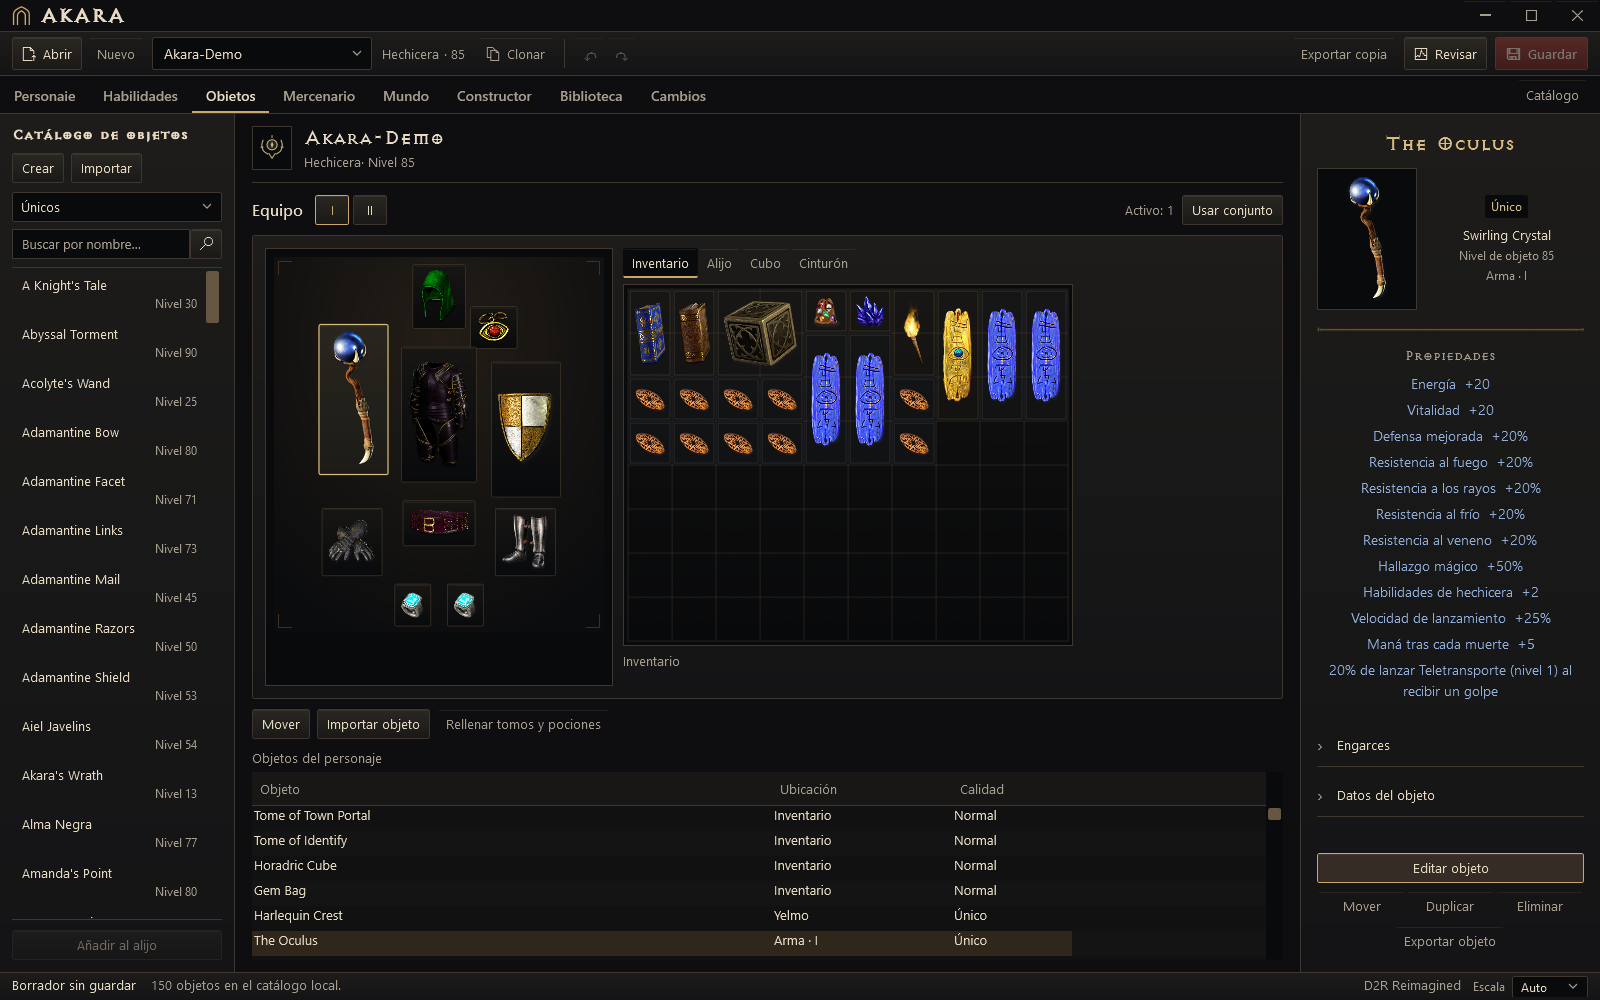
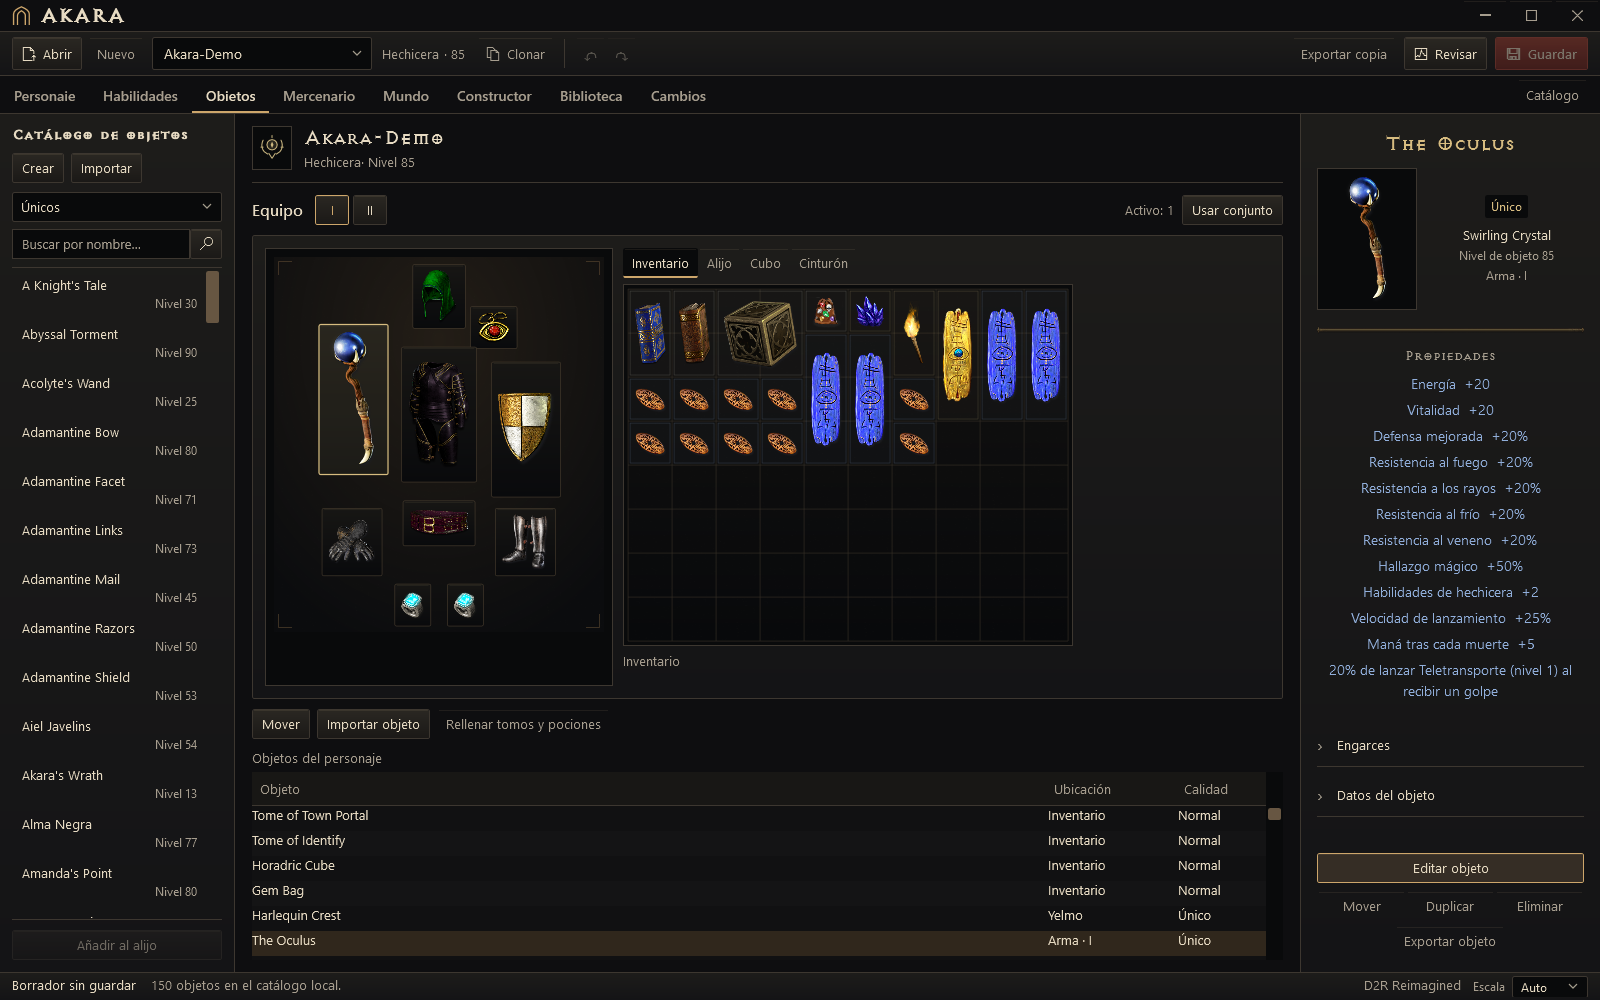
Keep item table readable through window and appearance changes

diff --git a/src/Akara.Desktop/WorkbenchView.xaml b/src/Akara.Desktop/WorkbenchView.xaml
@@ -342,11 +342,11 @@
                 <RowDefinition Height="*" />
               </Grid.RowDefinitions>
               <TextBlock Text="Objetos del personaje" Foreground="{StaticResource MutedBrush}" Margin="0,0,0,6" />
-              <DataGrid Grid.Row="1" ItemsSource="{Binding Items}" SelectedItem="{Binding SelectedItem,Mode=TwoWay}" IsReadOnly="True" MouseDoubleClick="OnItemTableInvoked" RowHeight="25" AlternationCount="0">
+              <DataGrid x:Name="CharacterItemTable" Loaded="OnItemTableLoaded" SizeChanged="OnItemTableSizeChanged" IsVisibleChanged="OnItemTableVisibleChanged" Grid.Row="1" ItemsSource="{Binding Items}" SelectedItem="{Binding SelectedItem,Mode=TwoWay}" IsReadOnly="True" MouseDoubleClick="OnItemTableInvoked" RowHeight="25" AlternationCount="0">
                 <DataGrid.Columns>
-                  <DataGridTextColumn Header="Objeto" Binding="{Binding Name}" Width="*" MaxWidth="520" MinWidth="200" />
-                  <DataGridTextColumn Header="Ubicación" Binding="{Binding LocationLabel}" Width="180" />
-                  <DataGridTextColumn Header="Calidad" Binding="{Binding QualityLabel}" Width="120" />
+                  <DataGridTextColumn Header="Objeto" Binding="{Binding Name}" Width="300" MinWidth="160"><DataGridTextColumn.ElementStyle><Style TargetType="TextBlock"><Setter Property="TextTrimming" Value="CharacterEllipsis"/><Setter Property="ToolTip" Value="{Binding Name}"/></Style></DataGridTextColumn.ElementStyle></DataGridTextColumn>
+                  <DataGridTextColumn Header="Ubicación" Binding="{Binding LocationLabel}" Width="130" MinWidth="130" MaxWidth="130" />
+                  <DataGridTextColumn Header="Calidad" Binding="{Binding QualityLabel}" Width="90" MinWidth="90" MaxWidth="90" />
                 </DataGrid.Columns>
               </DataGrid>
             </Grid>
@@ -566,7 +566,7 @@
             <DataGrid Grid.Row="2" ItemsSource="{Binding Items}" SelectedItem="{Binding SelectedItem,Mode=TwoWay}" IsReadOnly="True" MouseDoubleClick="OnItemTableInvoked" RowHeight="28">
               <DataGrid.Columns>
                 <DataGridTextColumn Header="Objetos actuales" Binding="{Binding Name}" Width="2*" />
-                <DataGridTextColumn Header="Ubicación" Binding="{Binding LocationLabel}" Width="180" />
+                <DataGridTextColumn Header="Ubicación" Binding="{Binding LocationLabel}" Width="130" MinWidth="130" MaxWidth="130" />
                 <DataGridTextColumn Header="Base" Binding="{Binding BaseName}" Width="*" />
               </DataGrid.Columns>
             </DataGrid>

diff --git a/src/Akara.Desktop/WorkbenchView.xaml.cs b/src/Akara.Desktop/WorkbenchView.xaml.cs
@@ -122,6 +122,20 @@ public partial class WorkbenchView : UserControl
     async void DesignCatalog(CatalogEntry entry){if(attached is not null)await NativeDialogs.DesignAsync(Window.GetWindow(this),attached,null,new ItemDesignRequest{BaseCode="",Quality="normal",RunewordName=entry.Name,Level=85});}
     void OnItemInvoked(object? sender,EventArgs e){if(attached?.SelectedItem is { } item)Design(item);}
     void OnItemTableInvoked(object sender,MouseButtonEventArgs e){if(sender is ItemsControl table&&e.OriginalSource is DependencyObject source&&ItemsControl.ContainerFromElement(table,source) is DataGridRow&&attached?.SelectedItem is { } item)Design(item);}
+    static void SizeItemTable(DataGrid table)
+    {
+        if(table.ActualWidth<=0||table.Columns.Count!=3)return;
+        double nameWidth=Math.Max(160,table.ActualWidth-table.BorderThickness.Left-table.BorderThickness.Right-220-SystemParameters.VerticalScrollBarWidth);
+        table.Columns[0].Width=new DataGridLength(nameWidth,DataGridLengthUnitType.Pixel);
+        table.Columns[1].Width=new DataGridLength(130,DataGridLengthUnitType.Pixel);
+        table.Columns[2].Width=new DataGridLength(90,DataGridLengthUnitType.Pixel);
+    }
+    void OnItemTableLoaded(object sender,RoutedEventArgs e)=>SizeItemTable((DataGrid)sender);
+    void OnItemTableSizeChanged(object sender,SizeChangedEventArgs e)=>SizeItemTable((DataGrid)sender);
+    void OnItemTableVisibleChanged(object sender,DependencyPropertyChangedEventArgs e)
+    {
+        if(e.NewValue is true)Dispatcher.BeginInvoke(DispatcherPriority.Loaded,new Action(()=>SizeItemTable((DataGrid)sender)));
+    }
     async void OnMercenary(object sender,RoutedEventArgs e){if(attached is not null)await NativeDialogs.MercenaryAsync(Window.GetWindow(this),attached);}
     async void OnAddProfile(object sender,RoutedEventArgs e){if(attached is null)return;var dialog=new Microsoft.Win32.OpenFolderDialog{Title="Carpeta de tablas del juego o del mod"};if(dialog.ShowDialog()==true)await attached.RegisterProfileAsync(dialog.FolderName);}
     void OnTitleDrag(object sender,MouseButtonEventArgs e){if(Window.GetWindow(this) is not { } window)return;if(e.ClickCount==2){window.WindowState=window.WindowState==WindowState.Maximized?WindowState.Normal:WindowState.Maximized;return;}try{window.DragMove();}catch(InvalidOperationException){}}

diff --git a/design/native-0.5/review.md b/design/native-0.5/review.md
@@ -40,6 +40,7 @@ La evidencia de paquete sobre fixtures privadas, manifiestos y hashes correspond
 | Riesgo de desbordamiento con nombres largos. | **Cerrado.** La muestra real de talismán a 1280 conserva el nombre completo en dos líneas y mantiene las acciones accesibles. |
 | Escala manual 150% con inspector recortado en una ventana insuficiente. | **Cerrado por prueba GUI reportada por root sobre el paquete final.** La ventana crece a 1740 × 1200, todos los botones permanecen visibles y se puede volver a Auto. Las capturas fuera de pantalla no se usan como prueba de esta corrección interactiva. |
 | Barra de estado oculta por la barra de tareas al maximizar. | **Cerrado por prueba GUI reportada por root tras el ajuste a WorkArea.** La barra de estado completa queda visible sobre la barra de tareas. El tamaño exterior de WindowGraphicsCapture no se interpreta como una medida del área útil de contenido. |
+| Columnas auxiliares comprimidas tras maximizar, cambiar de vista y restaurar. | **Cerrado por prueba GUI reportada por root sobre el paquete final.** Tras maximizar → Habilidades → Objetos → restaurar a 1600, el nombre ocupa el ancho restante y Ubicación/Calidad se mantienen completas y legibles. Este cierre corresponde a la prueba interactiva de root, sin una nueva revisión visual completa por este agente. |
 
 No quedan cambios visuales requeridos por esta revisión. El resultado presenta una jerarquía de armería y ficha de objeto que supera el cambio de paleta: cambian la escala de las piezas, la prioridad del listado, la estructura del inspector y la lectura de los controles.
 
@@ -55,4 +56,4 @@ Se inspeccionaron el [informe externo del paquete](../../../../outputs/AKARA-0.5
 
 Entre los checks leídos figuran la exclusión de retratos rechazados, la ausencia del atlas generado, la ausencia de fuentes y sprites locales del juego embebidos y el rechazo de sprites truncados. Estos resultados se atribuyen al paquete probado; no se deducen de su apariencia.
 
[2 lines of base64/hex data omitted]
